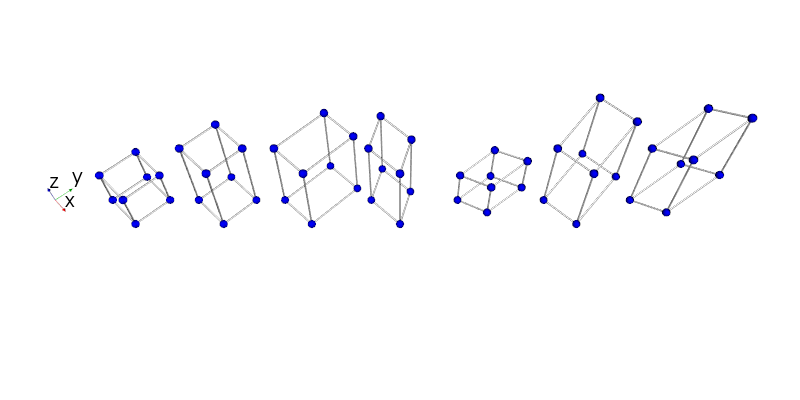
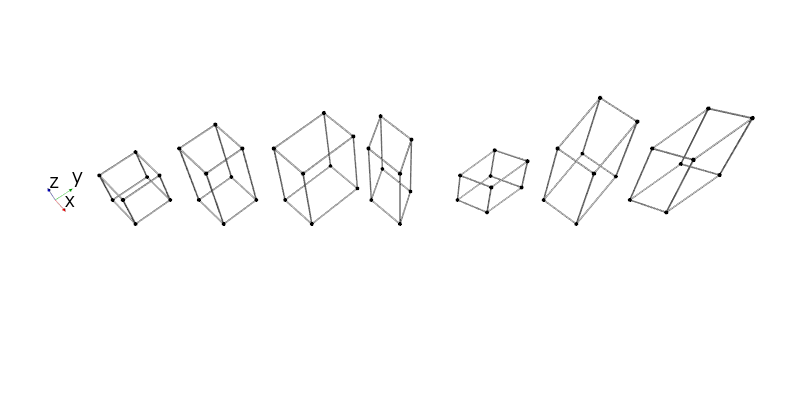
recompiled examples to take latest changes into account

diff --git a/examples/3d_visualisation/crystal_lattice_3d.py b/examples/3d_visualisation/crystal_lattice_3d.py
@@ -2,7 +2,7 @@
 import vtk, os
 from pymicro.crystal.lattice import Lattice
 from pymicro.view.scene3d import Scene3D
-from pymicro.view.vtk_utils import lattice_grid, lattice_3d, lattice_3d_with_planes, axes_actor
+from pymicro.view.vtk_utils import lattice_grid, lattice_3d, lattice_3d_with_planes, axes_actor, apply_translation_to_actor
 
 if __name__ == '__main__':
   '''
@@ -25,45 +25,31 @@ if __name__ == '__main__':
 
   l = Lattice.cubic(a)
   cubic = lattice_3d(l)
-  transform = vtk.vtkTransform()
-  transform.Translate(0.5,0.5,0)
-  cubic.SetUserTransform(transform)
+  apply_translation_to_actor(cubic, (0.5, 0.5, 0.0))
 
   l = Lattice.tetragonal(a, c)
   tetragonal = lattice_3d(l)
-  transform = vtk.vtkTransform()
-  transform.Translate(2.0,2.0,0)
-  tetragonal.SetUserTransform(transform)
+  apply_translation_to_actor(tetragonal, (2.0, 2.0, 0.0))
 
   l = Lattice.orthorombic(a, b, c)
   orthorombic = lattice_3d(l)
-  transform = vtk.vtkTransform()
-  transform.Translate(3.5,3.5,0)
-  orthorombic.SetUserTransform(transform)
+  apply_translation_to_actor(orthorombic, (3.5, 3.5, 0.0))
 
   l = Lattice.hexagonal(a, c)
   hexagonal = lattice_3d(l)
-  transform = vtk.vtkTransform()
-  transform.Translate(5.0,5.0,0)
-  hexagonal.SetUserTransform(transform)
+  apply_translation_to_actor(hexagonal, (5.0, 5.0, 0.0))
 
   l = Lattice.rhombohedral(a, alpha)
   rhombohedral = lattice_3d(l)
-  transform = vtk.vtkTransform()
-  transform.Translate(6.5,6.5,0)
-  rhombohedral.SetUserTransform(transform)
+  apply_translation_to_actor(rhombohedral, (6.5, 6.5, 0.0))
 
   l = Lattice.monoclinic(a, b, c, alpha)
   monoclinic = lattice_3d(l)
-  transform = vtk.vtkTransform()
-  transform.Translate(8.0,8.0,0)
-  monoclinic.SetUserTransform(transform)
+  apply_translation_to_actor(monoclinic, (8.0, 8.0, 0.0))
 
   l = Lattice.triclinic(a, b, c, alpha, beta, gamma)
   triclinic = lattice_3d(l)
-  transform = vtk.vtkTransform()
-  transform.Translate(9.5,9.5,0)
-  triclinic.SetUserTransform(transform)
+  apply_translation_to_actor(triclinic, (9.5, 9.5, 0.0))
 
   # add actors to the 3d scene
   s3d.add(cubic)
@@ -86,7 +72,7 @@ if __name__ == '__main__':
   cam.SetViewUp(0, 0, 1)
   cam.SetPosition(7, 4, 3)
   cam.SetFocalPoint(5.5, 5.5, 0)
-  cam.SetClippingRange(-20,20)
+  cam.SetClippingRange(-20, 20)
   cam.Dolly(0.2)
   s3d.set_camera(cam)
   s3d.render()

diff --git a/examples/3d_visualisation/2-6-2_30k00_c1_3d.py b/examples/3d_visualisation/2-6-2_30k00_c1_3d.py
@@ -13,7 +13,7 @@ if __name__ == '__main__':
   '''
   # create the 3D scene
   base_name = os.path.splitext(__file__)[0]
-  s3d = Scene3D(display=False, ren_size=(1000,800), name=base_name)
+  s3d = Scene3D(display=True, ren_size=(1000,800), name=base_name)
 
   # reading volume
   data_dir = '../data/'
@@ -27,10 +27,15 @@ if __name__ == '__main__':
   skin = contourFilter(grid, 2, opacity=0.5, discrete=True)
   outline = data_outline(grid)
 
+  # add a color bar
+  lut = crack.GetMapper().GetLookupTable()
+  bar = color_bar('Elevation', lut, fmt='%.0f', width=0.5, height=0.075, num_labels=5, font_size=26)
+  
   # add actors to the scene
   s3d.add(outline)
   s3d.add(skin)
   s3d.add(crack)
+  s3d.add(bar)
 
   # setup LTS axes
   axes = axes_actor(length=volsize[2], axisLabels=('L','T','S'), fontSize=30)

diff --git a/examples/3d_visualisation/cubic_crystal_3d.py b/examples/3d_visualisation/cubic_crystal_3d.py
@@ -19,19 +19,19 @@ if __name__ == '__main__':
   
   # create the slip planes and the cubic lattice actor
   hklplanes = HklPlane.get_family('111')
-  cubic  = lattice_3d_with_planes(l, hklplanes, crystal_orientation=None, \
-    show_normal=True, plane_opacity=0.5)
+  cubic  = lattice_3d_with_planes(l, hklplanes, origin='mid', \
+    crystal_orientation=None, show_normal=True, plane_opacity=0.5)
   s3d.add(cubic)
 
   # add axes actor
-  axes = axes_actor(0.5)
+  axes = axes_actor(0.5, fontSize=50)
   s3d.add(axes)
 
   # set up camera and render
   cam = setup_camera(size=(1, 1, 1))
   cam.SetFocalPoint(0, 0, 0)
   cam.SetPosition(4, -1.5, 1.5) # change the position to something better
-  cam.Dolly(1.1) # get a little closer
+  cam.Dolly(1.2) # get a little closer
   s3d.set_camera(cam)
   s3d.render()
 

diff --git a/examples/3d_visualisation/grain_hkl_3d.py b/examples/3d_visualisation/grain_hkl_3d.py
@@ -43,12 +43,10 @@ if __name__ == '__main__':
 
   print 'adding a lattice to picture the grain orientation'
   lat_size = 20
-  l = Lattice.cubic(lat_size)
+  l = Lattice.face_centered_cubic(lat_size)
   cubic = lattice_3d_with_planes(l, hklplanes, crystal_orientation=grain.orientation, \
-    show_normal=True, plane_opacity=1.0)
-  tra = cubic.GetUserTransform()
-  tra.PostMultiply()
-  tra.Translate(lat_size, lat_size, lat_size)
+    show_normal=True, plane_opacity=1.0, origin='mid', sphereColor=grey, sphereRadius=0.1)
+  apply_translation_to_actor(cubic, (lat_size, lat_size, lat_size))
 
   print 'adding axes'
   axes = axes_actor(length = 100, fontSize=60)

diff --git a/examples/3d_visualisation/cracked_single_crystal_with_slip_systems.py b/examples/3d_visualisation/cracked_single_crystal_with_slip_systems.py
@@ -118,7 +118,7 @@ if __name__ == '__main__':
   s3d.add(g1)
  
   # add axes actor
-  axes = axes_actor(0.5)
+  axes = axes_actor(0.5, fontSize=40)
   s3d.add(axes)
   
   # set up camera
